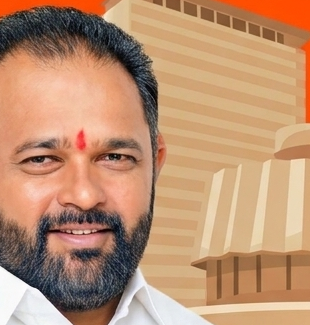
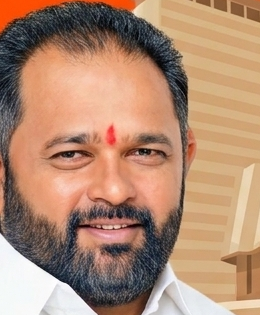
feat: perfect mobile and desktop ballot card layout, tight candidate portrait, and Marathi preference 1 stamp highlight

diff --git a/index.html b/index.html
@@ -209,7 +209,6 @@
   color: #fde68a;
 }
 
-
 .campaign-text {
   text-align: center;
   flex: 1;
@@ -222,7 +221,7 @@
     /* ── Official Ballot Voting Box & Campaign Elements ──────────── */
     .ballot-table-wrap {
       width: 100%;
-      max-width: 620px;
+      max-width: 660px;
       margin: 0.35rem auto 0.55rem;
       background: #ffffff;
       border: 2.5px solid #0f172a;
@@ -244,13 +243,19 @@
       border-collapse: collapse;
       text-align: center;
       background: #ffffff;
+      table-layout: fixed;
     }
+    .th-sr { width: 72px; }
+    .th-cand { width: auto; }
+    .th-photo { width: 76px; }
+    .th-vote { width: 92px; }
+
     .ballot-table th {
       background: linear-gradient(180deg, #f8fafc 0%, #edf2f7 100%);
       color: #0f172a;
       font-size: 0.8rem;
       font-weight: 900;
-      padding: 0.45rem 0.55rem;
+      padding: 0.45rem 0.35rem;
       border-bottom: 2px solid #0f172a;
       border-right: 1.5px solid #0f172a;
       line-height: 1.2;
@@ -269,7 +274,7 @@
       margin-top: 2px;
     }
     .ballot-table td {
-      padding: 0.45rem 0.6rem;
+      padding: 0.5rem 0.4rem;
       border-right: 1.5px solid #0f172a;
       vertical-align: middle;
       background: #ffffff;
@@ -283,18 +288,18 @@
       font-weight: 900;
       color: #0f172a;
       line-height: 1;
-      width: 80px;
     }
     .ballot-cand {
       text-align: left;
-      padding-left: 1rem !important;
+      padding-left: 0.9rem !important;
     }
     .ballot-cand-mr {
-      font-size: 1.55rem;
+      font-size: 1.6rem;
       font-weight: 900;
       color: #0f172a;
       line-height: 1.15;
       letter-spacing: 0.01em;
+      white-space: nowrap;
     }
     .ballot-cand-en {
       font-size: 0.86rem;
@@ -303,6 +308,7 @@
       text-transform: uppercase;
       letter-spacing: 0.06em;
       margin-top: 2px;
+      white-space: nowrap;
     }
     .ballot-cand-badge {
       display: inline-flex;
@@ -313,41 +319,64 @@
       color: #047857;
       font-size: 0.68rem;
       font-weight: 800;
-      padding: 0.1rem 0.45rem;
+      padding: 0.12rem 0.45rem;
       border-radius: 4px;
       margin-top: 4px;
       letter-spacing: 0.02em;
+      white-space: nowrap;
     }
     .ballot-photo-cell {
-      width: 72px;
       text-align: center;
-      padding: 0.35rem 0.4rem !important;
+      padding: 0.35rem 0.25rem !important;
     }
     .ballot-cand-photo {
-      width: 52px;
-      height: 60px;
+      width: 54px;
+      height: 62px;
       object-fit: cover;
       object-position: top center;
       border: 1.5px solid #0f172a;
       border-radius: 4px;
-      display: inline-block;
-      vertical-align: middle;
-      box-shadow: 0 2px 6px rgba(0,0,0,0.18);
+      display: block;
+      margin: 0 auto;
+      box-shadow: 0 2px 6px rgba(0,0,0,0.2);
       background: #f8fafc;
     }
     .ballot-vote {
-      width: 85px;
       text-align: center;
+      padding: 0.35rem 0.25rem !important;
+    }
+    
+    /* Highly attractive official vote stamp box for पसंती क्र. १ */
+    .ballot-stamp-box {
+      display: inline-flex;
+      flex-direction: column;
+      align-items: center;
+      justify-content: center;
+      background: linear-gradient(135deg, #ede9fe 0%, #f5f3ff 100%);
+      border: 2px solid #7c3aed;
+      border-radius: 8px;
+      padding: 0.2rem 0.45rem;
+      min-width: 58px;
+      box-shadow: 0 2px 10px rgba(124, 58, 237, 0.25), inset 0 1px 2px rgba(255,255,255,0.8);
       position: relative;
     }
     .ballot-vote-num {
-      font-size: 2.85rem;
+      font-size: 2.75rem;
       font-weight: 900;
       color: #6d28d9;
-      font-family: 'Times New Roman', Georgia, serif;
+      font-family: 'Noto Sans Devanagari', 'Mukta', 'Times New Roman', serif;
       line-height: 1;
       display: inline-block;
-      text-shadow: 0 1px 3px rgba(109, 40, 217, 0.35);
+      text-shadow: 0 1px 3px rgba(109, 40, 217, 0.4);
+    }
+    .ballot-vote-sub {
+      font-size: 0.65rem;
+      font-weight: 900;
+      color: #7c3aed;
+      text-transform: uppercase;
+      letter-spacing: 0.03em;
+      margin-top: 1px;
+      white-space: nowrap;
     }
     
     /* Top title badge */
@@ -425,22 +454,37 @@
       font-weight: 900;
     }
     @media (max-width: 768px) {
-      .ballot-table-wrap { max-width: 98%; margin: 0.2rem auto 0.4rem; }
-      .ballot-sr { font-size: 1.9rem; width: 55px; }
-      .ballot-cand { padding-left: 0.6rem !important; }
-      .ballot-cand-mr { font-size: 1.22rem; }
-      .ballot-cand-en { font-size: 0.74rem; }
-      .ballot-cand-badge { font-size: 0.6rem; padding: 0.05rem 0.35rem; }
-      .ballot-photo-cell { width: 50px; }
-      .ballot-cand-photo { width: 44px; height: 50px; }
-      .ballot-vote { width: 55px; }
-      .ballot-vote-num { font-size: 2.1rem; }
-      .ballot-election-badge { font-size: 0.95rem; padding: 0.3rem 1rem; }
-      .ballot-appeal { font-size: 0.95rem; }
-      .ballot-pref-badge { font-size: 0.9rem; }
-      .ballot-date-pill { font-size: 0.78rem; padding: 0.35rem 0.9rem; gap: 0.4rem; }
-      .campaign-inner { flex-direction: column; gap: 0.85rem; padding: 0 0.75rem; }
-      .campaign-img { width: 120px; height: 120px; }
+      .campaign-inner { flex-direction: column; gap: 0.5rem; padding: 0 0.5rem; }
+      .campaign-img { width: 90px; height: 90px; }
+      .campaign-img.right-img { display: none; }
+      .ballot-election-badge { font-size: 0.88rem; padding: 0.28rem 0.9rem; margin-bottom: 0.35rem; }
+      
+      .ballot-table-wrap { max-width: 100%; margin: 0.2rem auto 0.4rem; border-radius: 10px; }
+      .th-sr { width: 48px; }
+      .th-cand { width: auto; }
+      .th-photo { width: 56px; }
+      .th-vote { width: 66px; }
+
+      .ballot-table th { padding: 0.35rem 0.15rem; font-size: 0.68rem; }
+      .ballot-table th span { font-size: 0.52rem; }
+      .ballot-table td { padding: 0.35rem 0.15rem; }
+
+      .ballot-sr { font-size: 1.85rem; }
+      .ballot-cand { padding-left: 0.45rem !important; }
+      .ballot-cand-mr { font-size: 1.15rem; white-space: nowrap; }
+      .ballot-cand-en { font-size: 0.65rem; white-space: nowrap; margin-top: 1px; }
+      .ballot-cand-badge { font-size: 0.56rem; padding: 0.05rem 0.28rem; margin-top: 2px; }
+
+      .ballot-photo-cell { padding: 0.25rem 0.15rem !important; }
+      .ballot-cand-photo { width: 44px; height: 52px; }
+
+      .ballot-stamp-box { min-width: 46px; padding: 0.15rem 0.25rem; border-width: 1.5px; border-radius: 6px; }
+      .ballot-vote-num { font-size: 1.95rem; }
+      .ballot-vote-sub { font-size: 0.52rem; }
+
+      .ballot-appeal { font-size: 0.92rem; margin-top: 0.4rem; gap: 0.25rem; }
+      .ballot-pref-badge { font-size: 0.85rem; padding: 0.1rem 0.45rem; }
+      .ballot-date-pill { font-size: 0.74rem; padding: 0.3rem 0.75rem; gap: 0.35rem; margin-top: 0.4rem; }
       .floating-visitor-pill { bottom: 16px; left: 16px; font-size: 0.76rem; padding: 0.35rem 0.85rem; }
     }
 
@@ -1233,10 +1277,10 @@
         <table class="ballot-table">
           <thead>
             <tr>
-              <th style="width:80px;">अनु. क्र.<span>SR.NO.</span></th>
-              <th>उमेदवाराचे नाव<span>NAME OF CANDIDATE</span></th>
-              <th style="width:72px;">फोटो<span>PHOTO</span></th>
-              <th style="width:85px;">पसंती क्र.<span>CHOICE NO.</span></th>
+              <th class="th-sr">अनु. क्र.<span>SR.NO.</span></th>
+              <th class="th-cand">उमेदवाराचे नाव<span>NAME OF CANDIDATE</span></th>
+              <th class="th-photo">फोटो<span>PHOTO</span></th>
+              <th class="th-vote">पसंती क्र.<span>CHOICE NO.</span></th>
             </tr>
           </thead>
           <tbody>
@@ -1251,7 +1295,10 @@
                 <img class="ballot-cand-photo" src="images/candidate_photo.png" alt="सुनीलभाऊ जगताप" onerror="this.src='icon.png'" />
               </td>
               <td class="ballot-vote">
-                <span class="ballot-vote-num" id="headerPreference">1</span>
+                <div class="ballot-stamp-box">
+                  <span class="ballot-vote-num" id="headerPreference">१</span>
+                  <span class="ballot-vote-sub">पसंती १</span>
+                </div>
               </td>
             </tr>
           </tbody>
@@ -1726,9 +1773,10 @@
         el('headerConstituency').textContent = settings.constituency_name;
       }
       if (settings.preference_number && el('headerPreference')) {
-        // Only extract the digit (e.g., '1' from 'पसंती क्र. १' or '1')
         const match = settings.preference_number.match(/[1-9१-९]/);
-        el('headerPreference').textContent = match ? '1' : settings.preference_number;
+        const digit = match ? match[0] : settings.preference_number;
+        const marathiMap = {'1':'१','2':'२','3':'३','4':'४','5':'५','6':'६','7':'७','8':'८','9':'९'};
+        el('headerPreference').textContent = marathiMap[digit] || digit || '१';
       }
       if (settings.header_left_image && el('headerLeftImg'))
         el('headerLeftImg').src               = settings.header_left_image;
